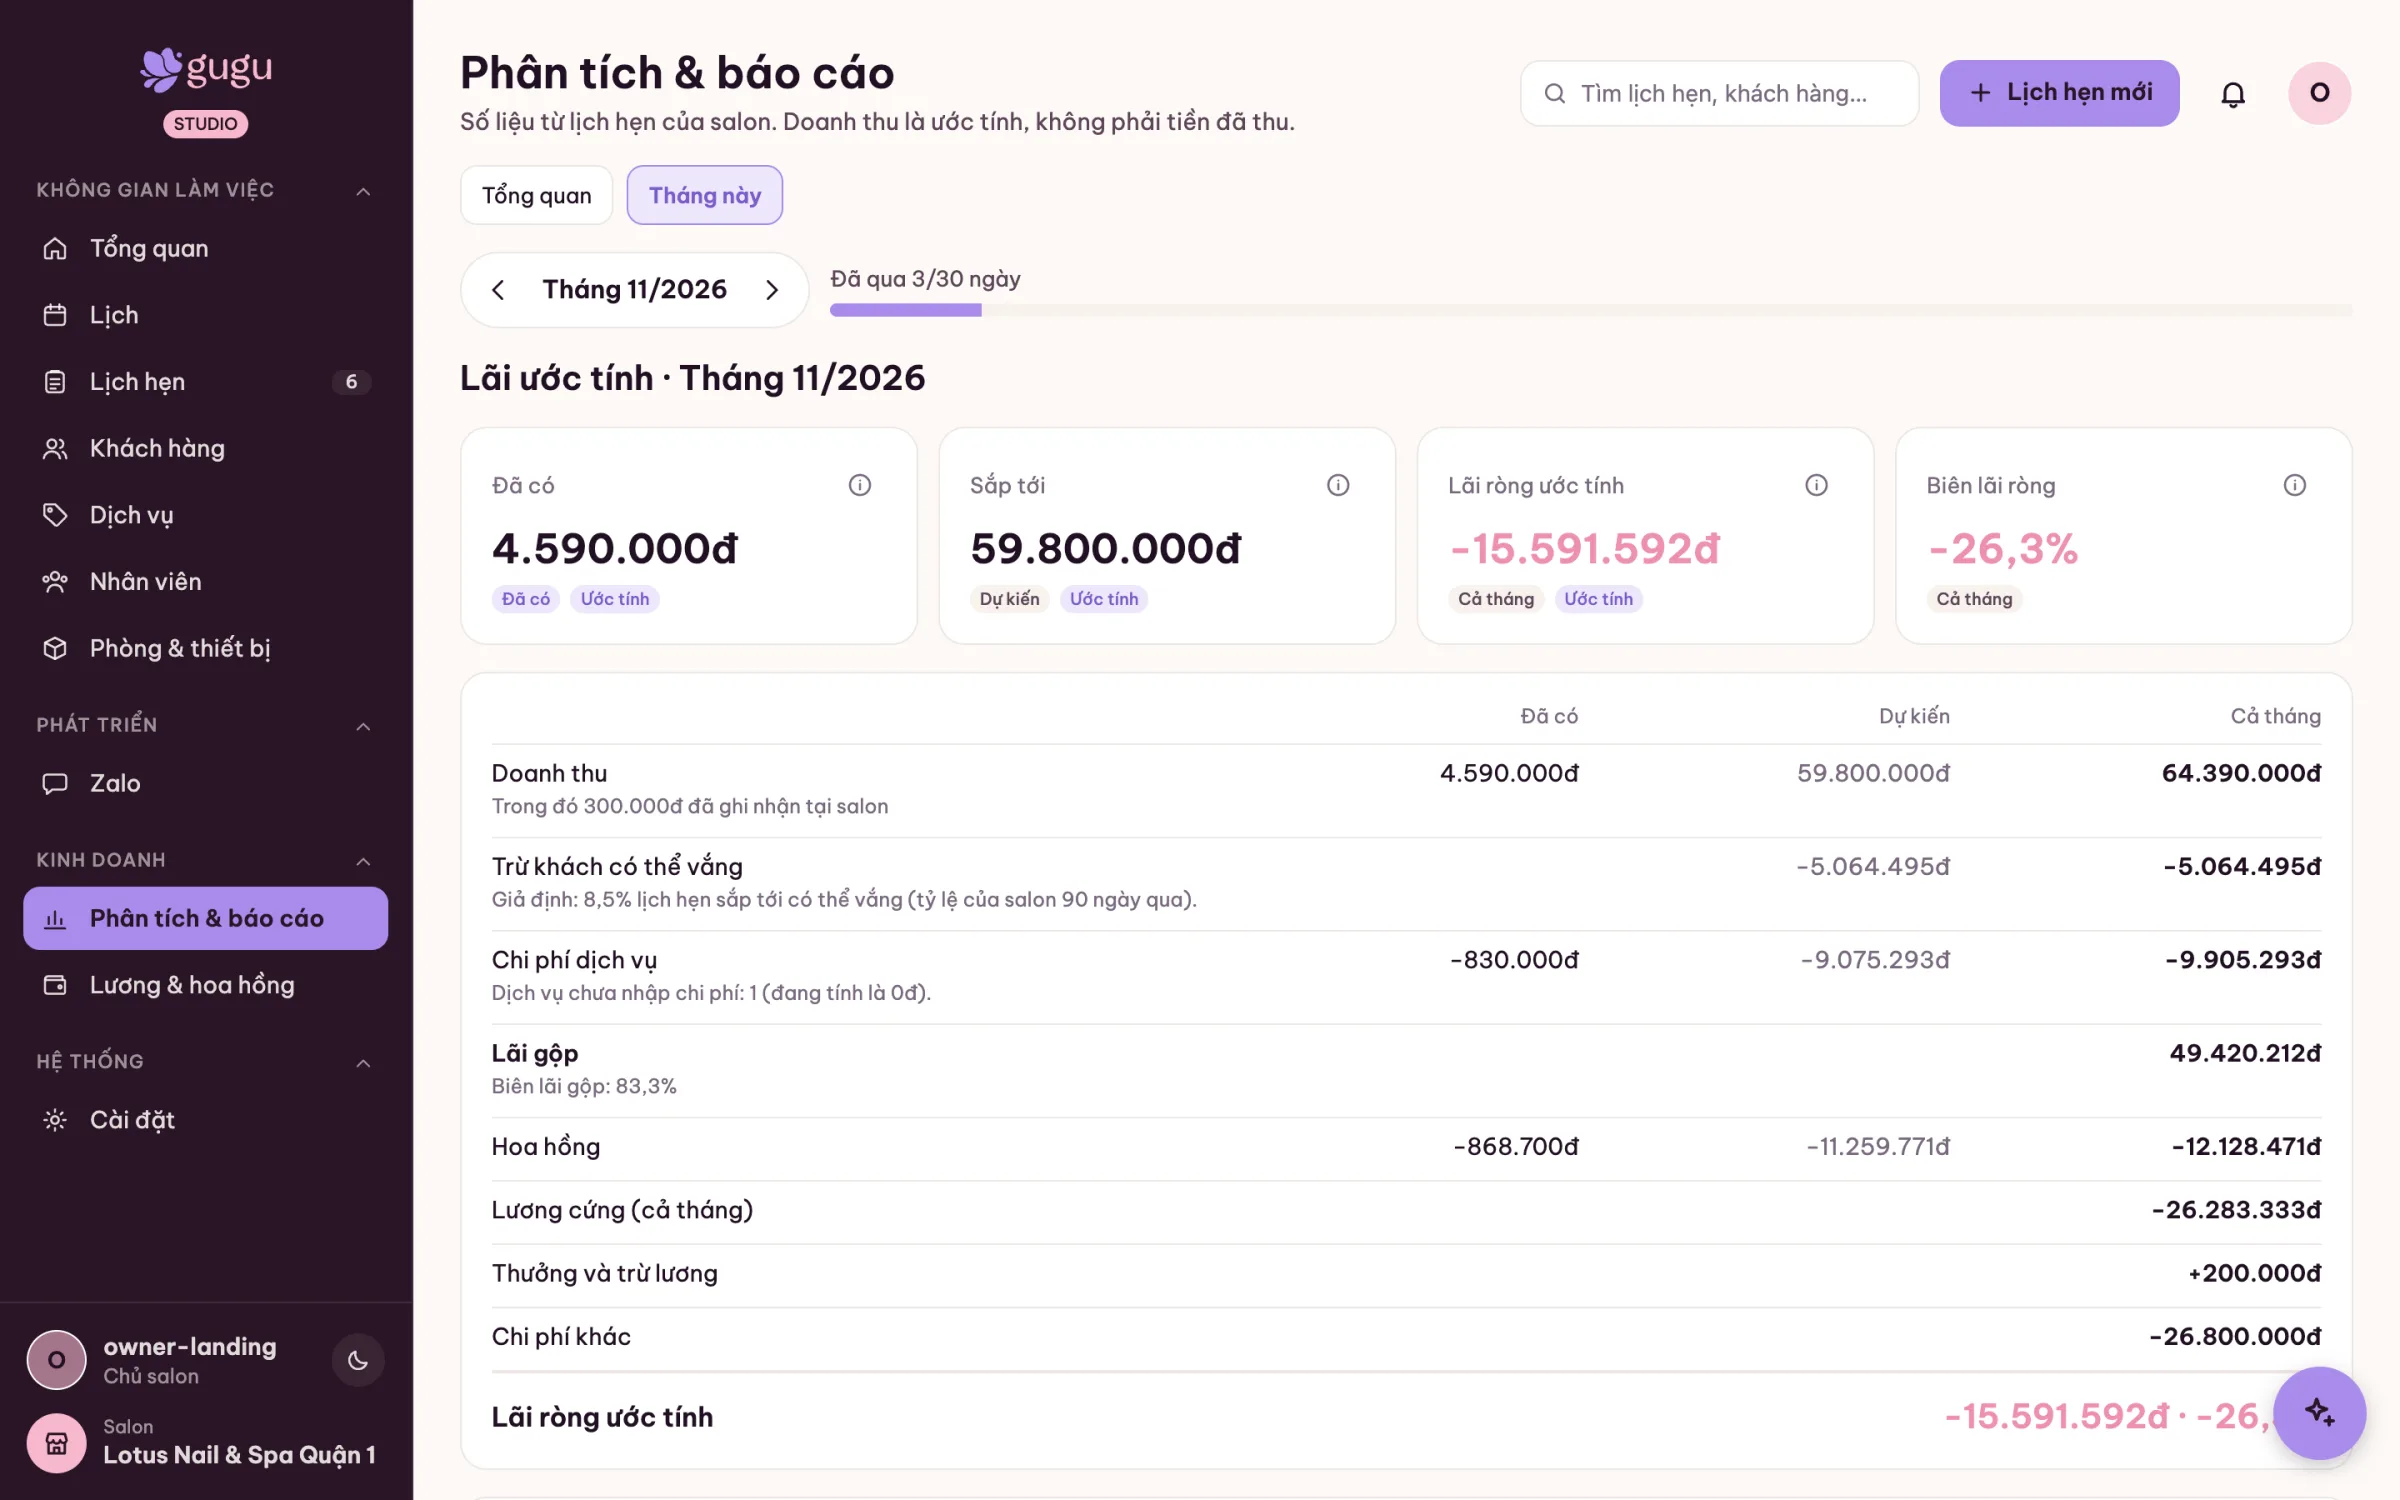
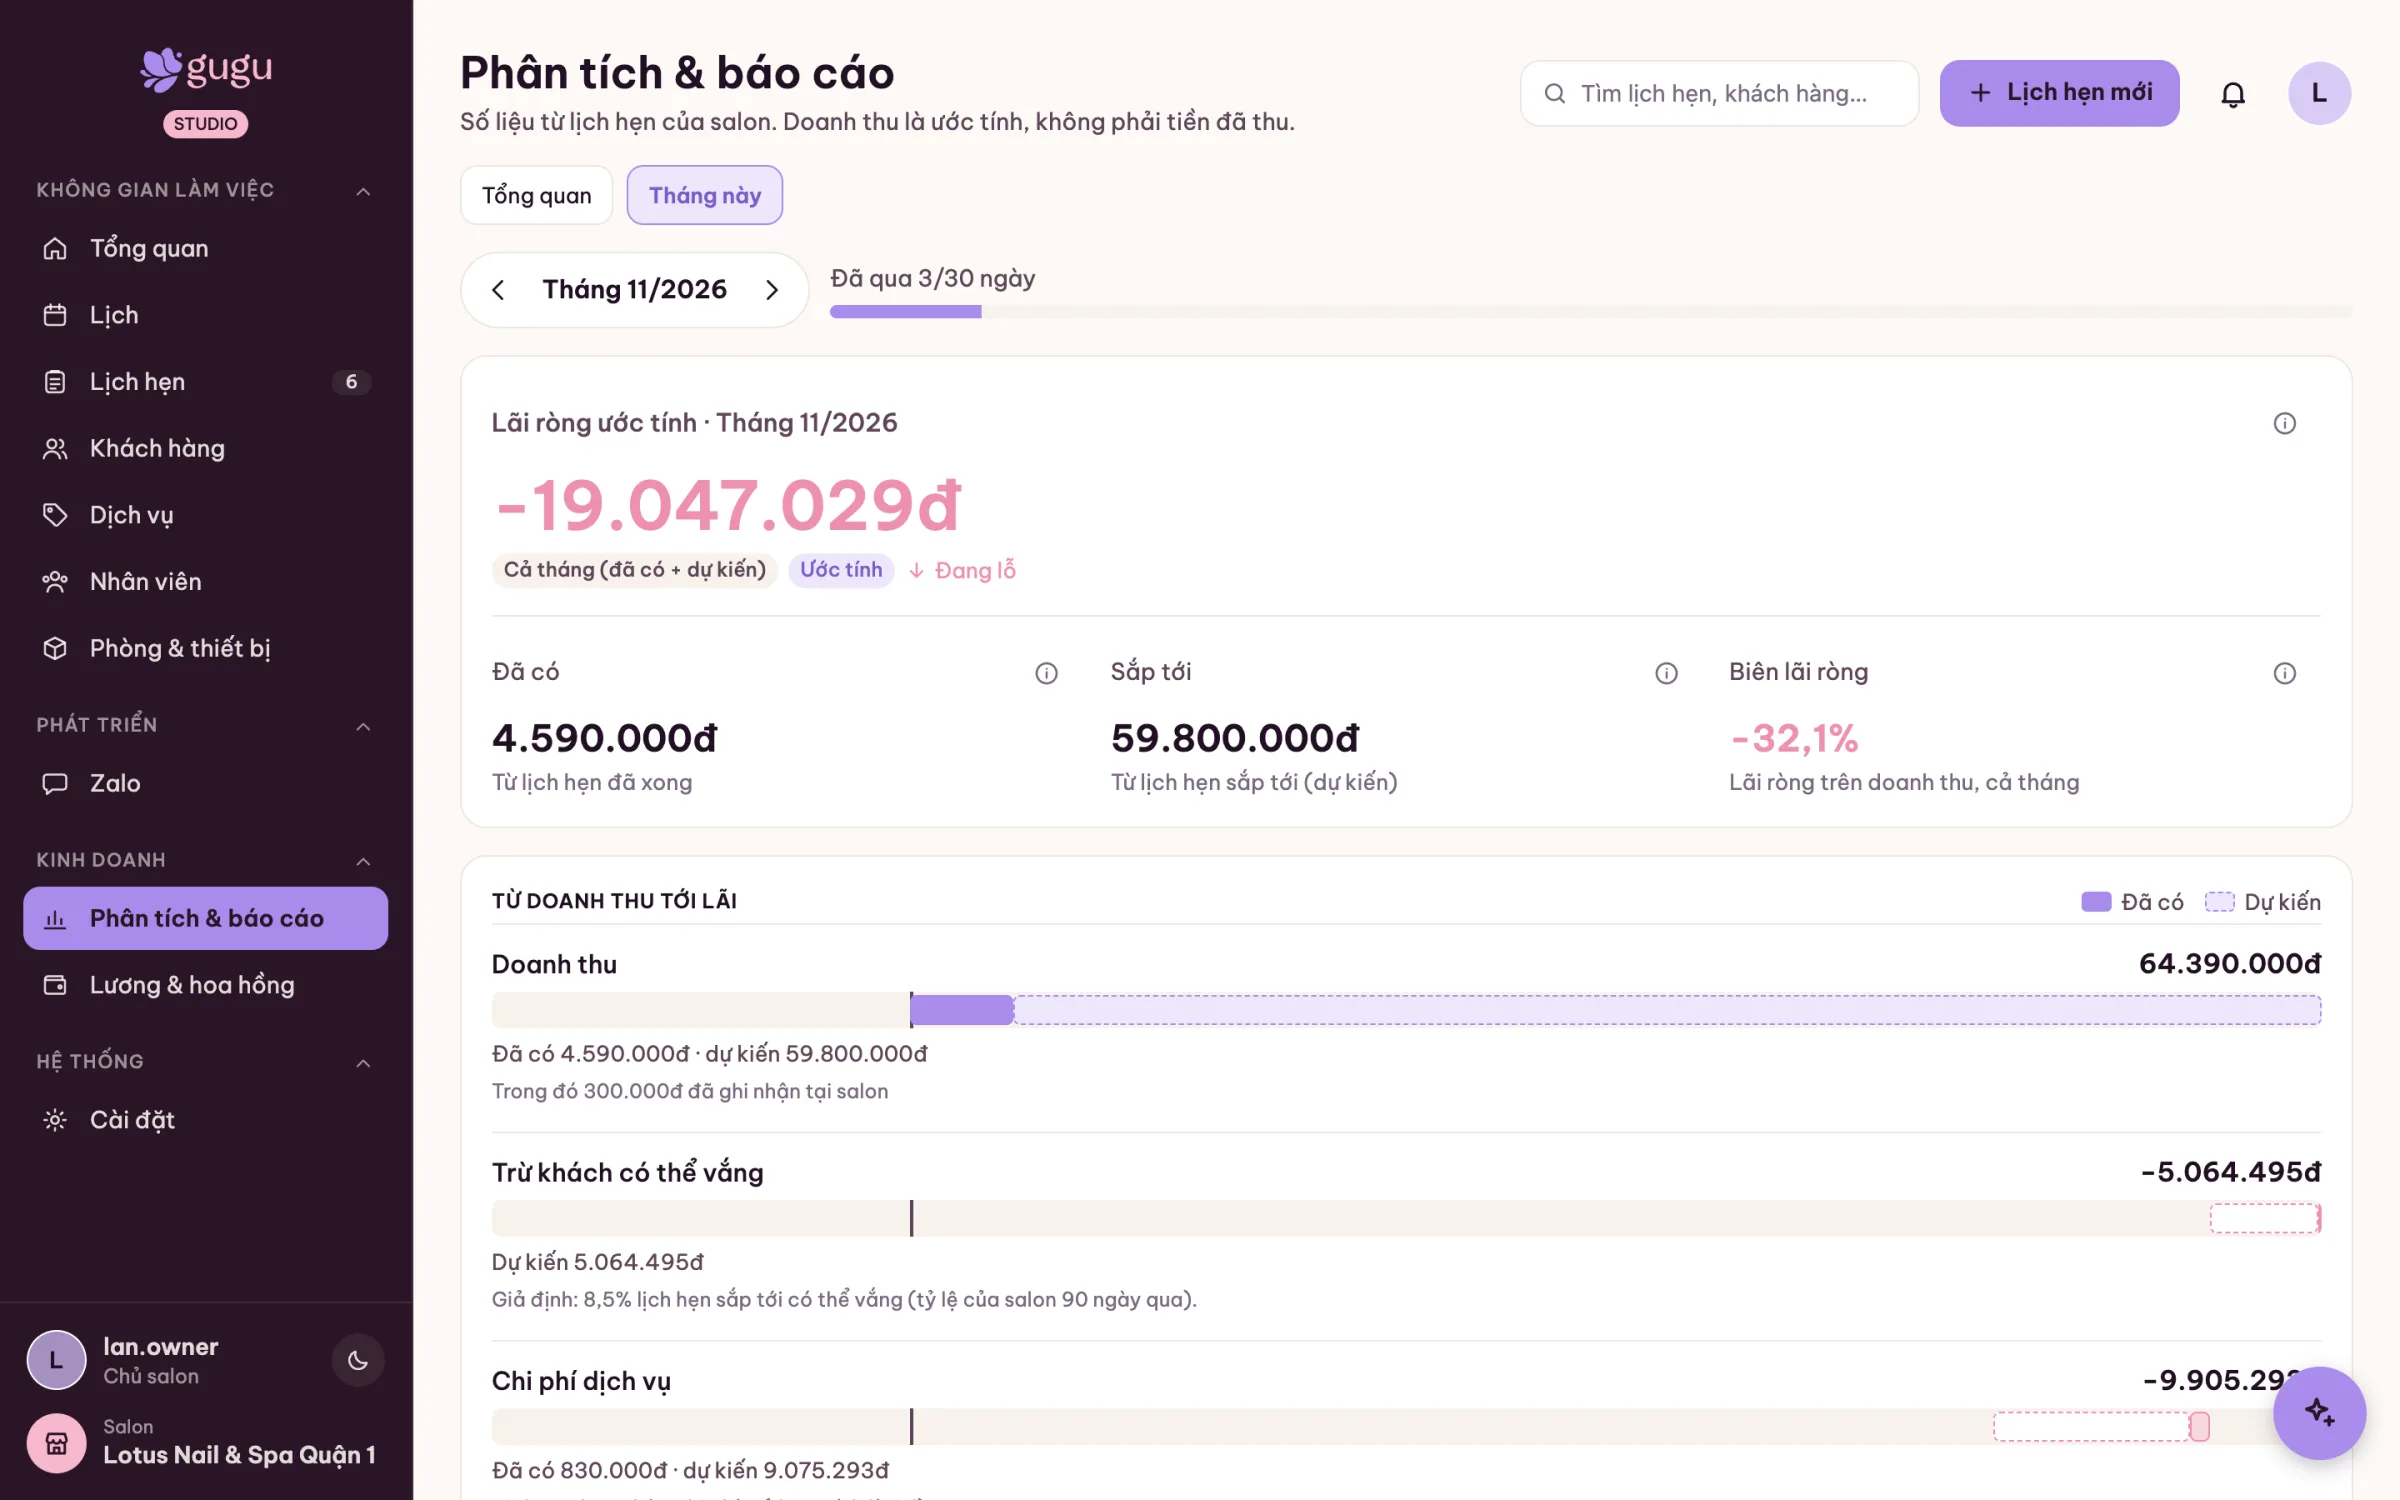
feat(02): final retake after payroll UX — whole payroll feature, real Insights, clean overview; atomic captures; intro speed-up
- Re-seeded own DB (seed-payroll-demo) on main 96cdd79; setup finished, no checklist.
- Pay page: full payroll month screen (CSV/Excel export, close month, summary, table, tax note) with
  the per-person drawer sliding in; phones show the drawer. payroll-table crop removed.
- Office laptop: overview crop below the month estimate card (seeded month is negative).
- Capture script: temp dir + atomic rename for images and manifest (the :8094 'empty image asset'
  error), fail on error overlays / Server Error with retries, hide the assistant bubble, clickText /
  clickAt / scrollY actions.
- Next / → / ↓ again during the intro speeds it up; scroll, ← and chapters stay ignored.
i18n:vi-review (flow.payroll.shot, flow.payroll.shotPerson)

diff --git a/apps/app/features/landing/flow/flow.css.ts b/apps/app/features/landing/flow/flow.css.ts
@@ -326,12 +326,18 @@ export const FLOW_CSS = `
 .in-list li i{font-style:normal;flex:0 0 22px;height:22px;border-radius:50%;background:${color.ink};color:${color.white};display:flex;align-items:center;justify-content:center;font-size:12px}
 .py-note{font-family:${font.ui};font-size:12.5px;color:${color.ink2};margin:12px 0 0}
 .bo-shot{grid-row:1 / 3;align-self:center;margin:0;padding:14px}
-.bo-shot.ins{grid-column:7/13}.bo-shot.pay{grid-column:6/13}
+.bo-shot.ins{grid-column:7/13}
+.py-shots{grid-column:6/13;grid-row:1 / 3;align-self:center;position:relative;padding-bottom:4%}
+.py-shots .bo-shot{margin:0}
+.pay-person{position:absolute;right:-1.5%;bottom:-4%;width:31%;box-shadow:0 30px 70px rgba(42,20,38,.28)}
+.pay-person.bo-shot{padding:10px}
+.pay-person figcaption{font-size:12.5px;padding:0 2px 8px}
 .bo-shot figcaption{font-family:${font.uiSemiBold};font-size:14px;color:${color.ink};padding:2px 4px 12px}
 /* desktop: the whole crop at ≈ 1:1 CSS px; phones: full height, cropped sideways (text stays legible) */
 .bo-img{position:relative;overflow:hidden;border-radius:14px;border:1px solid ${color.lineSoft};background:${color.canvas};aspect-ratio:var(--ar)}
 .bo-img img{position:absolute;top:0;left:0;height:100%;width:auto;max-width:none;display:block}
-.bo-shot.ins{--ar:2.09}.bo-shot.pay{--ar:2.58}
+.bo-shot.ins{--ar:2.09}.pay-month{--ar:1.4734}.pay-person{--ar:.684}
+.pay-month .bo-img img,.pay-person .bo-img img{width:100%;height:auto}
 @media (max-width:899px){
   .ov-i,.ov-p{justify-content:flex-start}
   .ov-i .t .fl-h,.ov-p .t .fl-h{font-size:clamp(22px,6.2vw,27px);margin-bottom:0}
@@ -343,7 +349,11 @@ export const FLOW_CSS = `
   .py-note{font-size:11px;margin-top:6px}
   .bo-shot{padding:10px;width:100%;box-sizing:border-box}
   .bo-shot figcaption{font-size:12.5px;padding:0 2px 8px}
-  .bo-shot.ins{--ar:1.3}.bo-shot.pay{--ar:1.45}
+  .bo-shot.ins{--ar:1.3}
+  .py-shots{width:100%;padding:0}
+  .pay-month{display:none}
+  .pay-person{position:relative;right:auto;bottom:auto;width:100%;box-shadow:0 22px 60px rgba(42,20,38,.12)}
+  .pay-person{--ar:1.15}
 }
 /* X25 band right after the story: Basic free for the first year */
 .fy{padding:clamp(72px,12vh,140px) var(--g);background:linear-gradient(180deg,${color.canvas},${color.lilac100})}

diff --git a/apps/app/features/landing/flow/book.ts b/apps/app/features/landing/flow/book.ts
@@ -15,8 +15,8 @@ import { gsap } from "gsap";
  *   page the visitor left) and the sections below. While the journey is partly out of the viewport a
  *   "Center view" button smoothly re-docks it.
  * - Pages turn only by Next/Prev, HUD chapters, ← / → while the story is in view and one HORIZONTAL
- *   touch swipe per page. ↑ ↓ PgUp PgDn Space and vertical swipes scroll the page. Every input is ignored
- *   while the intro plays. A turn plays the timeline from one composed page to
+ *   touch swipe per page. ↑ ↓ PgUp PgDn Space and vertical swipes scroll the page. Scroll, swipes, ← and chapters are ignored
+ *   while the intro plays; Next / → / ↓ again speed it up. A turn plays the timeline from one composed page to
  *   the next at the original pacing and cannot stop half-way. Pressing Next / → again during a forward
  *   turn (or Prev / ← during a backward one) speeds it up to finish within 0.45 s, without skipping a
  *   page; the opposite direction reverses it. Page 1 has no Prev (nothing replays).
@@ -230,7 +230,11 @@ export function book(o: Opts): BookApi {
     if (then) after = then;
   };
   function next() {
-    if (intro === "playing") return; // every input is ignored while the intro plays
+    // Next / → again while the intro plays speeds it up (owner); nothing is queued, no page is skipped.
+    if (intro === "playing") {
+      fastForward();
+      return;
+    }
     if (intro === "todo") {
       playIntro();
       return;
@@ -379,7 +383,8 @@ export function book(o: Opts): BookApi {
     if (!horiz && !down && !up) return;
     if (!focusOk) return;
     if (intro === "playing") {
-      e.preventDefault(); // every input is ignored while the intro plays
+      e.preventDefault(); // scroll keys and ← are ignored; → / ↓ / PgDn / Space speed the intro up
+      if (k === "ArrowRight" || down) fastForward();
       return;
     }
     // ← → turn pages (and → / ↓ / PgDn / Space at the hero commit the intro, like a small scroll).

diff --git a/apps/app/features/landing/screens.ts b/apps/app/features/landing/screens.ts
@@ -25,8 +25,10 @@ const SCREENS = {
     appointmentsCrop2x: require("../../assets/studio/vi/appointments-crop-2x.webp") as number,
     insightsKpis: require("../../assets/studio/vi/insights-kpis.webp") as number,
     insightsKpis2x: require("../../assets/studio/vi/insights-kpis-2x.webp") as number,
-    payrollTable: require("../../assets/studio/vi/payroll-table.webp") as number,
-    payrollTable2x: require("../../assets/studio/vi/payroll-table-2x.webp") as number,
+    payrollMonth: require("../../assets/studio/vi/payroll-month.webp") as number,
+    payrollMonth2x: require("../../assets/studio/vi/payroll-month-2x.webp") as number,
+    payrollPerson: require("../../assets/studio/vi/payroll-person.webp") as number,
+    payrollPerson2x: require("../../assets/studio/vi/payroll-person-2x.webp") as number,
   },
   en: {
     overview: require("../../assets/studio/en/overview.webp") as number,
@@ -46,8 +48,10 @@ const SCREENS = {
     appointmentsCrop2x: require("../../assets/studio/en/appointments-crop-2x.webp") as number,
     insightsKpis: require("../../assets/studio/en/insights-kpis.webp") as number,
     insightsKpis2x: require("../../assets/studio/en/insights-kpis-2x.webp") as number,
-    payrollTable: require("../../assets/studio/en/payroll-table.webp") as number,
-    payrollTable2x: require("../../assets/studio/en/payroll-table-2x.webp") as number,
+    payrollMonth: require("../../assets/studio/en/payroll-month.webp") as number,
+    payrollMonth2x: require("../../assets/studio/en/payroll-month-2x.webp") as number,
+    payrollPerson: require("../../assets/studio/en/payroll-person.webp") as number,
+    payrollPerson2x: require("../../assets/studio/en/payroll-person-2x.webp") as number,
   },
 } as const;
 

diff --git a/apps/app/features/landing/flow/Payroll.tsx b/apps/app/features/landing/flow/Payroll.tsx
@@ -28,13 +28,24 @@ export function PayrollPanel() {
         </ul>
         <p className="py-note">{t("flow.payroll.note")}</p>
       </div>
-      <Shot
-        name="payrollTable"
-        name2x="payrollTable2x"
-        caption={t("flow.payroll.shot")}
-        sizes="(max-width: 899px) 154vw, 52vw"
-        className="pay"
-      />
+      {/* The whole payroll month screen (export, close, summary, table); the per-person drawer slides in
+          over it, as in the app. Phones show the drawer only (the full table is unreadable there). */}
+      <div className="py-shots">
+        <Shot
+          name="payrollMonth"
+          name2x="payrollMonth2x"
+          caption={t("flow.payroll.shot")}
+          sizes="(max-width: 899px) 1px, 56vw"
+          className="pay-month"
+        />
+        <Shot
+          name="payrollPerson"
+          name2x="payrollPerson2x"
+          caption={t("flow.payroll.shotPerson")}
+          sizes="(max-width: 899px) 92vw, 20vw"
+          className="pay-person"
+        />
+      </div>
     </div>
   );
 }

diff --git a/apps/app/features/landing/flow/timelines.ts b/apps/app/features/landing/flow/timelines.ts
@@ -410,7 +410,8 @@ export function buildJourney(
   const PY = PH.pay;
   show(tl, q, ".ov-p .t", PY, { y: 50 }, 0.025);
   stagger(tl, q, ".ov-p .in-list li", PY + 0.012, 0.007, { x: -20 }, 0.02);
-  show(tl, q, ".ov-p .bo-shot", PY + 0.006, { x: 40, scale: 0.96 }, 0.03);
+  show(tl, q, ".ov-p .pay-month", PY + 0.006, { x: 40, scale: 0.96 }, 0.03);
+  show(tl, q, ".ov-p .pay-person", PY + 0.035, { x: 60 }, 0.03);
   hide(tl, q, ".ov-p .t, .ov-p .bo-shot", PH.payOut);
 
   // switching (still in the office): the old system (notebook, spreadsheet, another app) flows into

diff --git a/docs/qa/02-landing-flow/README.md b/docs/qa/02-landing-flow/README.md
@@ -110,6 +110,18 @@ All pages are reachable forward and backward by Next/Prev, keys, swipes and the 
 - **`srcset` + `sizes`:** derived from the displayed width (box width × crop aspect ÷ box aspect). `width`/`height` attributes give the ratio before lazy load, which fixes a 0 px image on phones.
 - **Measured upscale** (displayed device px ÷ chosen file px; ≤ 1.15 required): 1440@2× 0.76–1.00, 1280@1× 0.44–0.52, 390@3× 0.60–0.82, 360@3× 0.59–0.82.
 
+## Final retake after payroll UX (main `96cdd79`)
+
+- **Fresh capture:** own DB `landing_gugu_payroll`, re-seeded with `seed-payroll-demo.mjs`; owner signed in, setup finished (no checklist anywhere; the script fails if one appears).
+- **Pay page = the whole feature:**
+  - the full payroll month screen: tabs, month, "Tải CSV / Tải Excel", "Chốt bảng lương", summary (to pay, projected, real employer cost), table and the tax note;
+  - the per-person drawer slides in over it (pay rule, commission per completed service, "Sửa lương");
+  - phones show the drawer only.
+- **Office laptop:** the overview crop below the "Tháng này" card (team timeline, upcoming, recent activity). The seeded month estimate is −19,047,029 ₫, so it is not shown in marketing.
+- **Refreshed with the same seed:** Insights KPIs, timeline, calendar, appointments and services crops.
+- **The error the owner saw on :8094:** the capture script wrote images in place, and the running Metro picked up half-written files ("Image asset … cannot be an empty file"). Now files are written in a temp dir and renamed atomically (images and manifest), and the script fails on any error overlay or "Server Error" instead of capturing it. The floating assistant bubble is hidden in captures.
+- **Intro speed-up:** Next / → / ↓ again during the intro speeds it up (owner); scroll, ← and chapters are still ignored.
+
 ## Back office uses real screens (owner, 2026-11-04)
 
 - **Insights page:** a real crop of the app's Insights screen ("Phân tích & báo cáo", 30 days: completed bookings, new and returning clients, estimated revenue, recorded at the salon, estimated gross margin).

diff --git a/docs/adr/0014-landing-story-book-navigation.md b/docs/adr/0014-landing-story-book-navigation.md
@@ -74,7 +74,8 @@ Normal page scrolling must always work, including while the story is in view." S
   out of the viewport and smoothly re-docks it;
 - "Skip the story" is removed (scrolling is free); "Finish journey" stays on the last page;
 - keys: only ← / → turn pages; ↑ ↓ PgUp PgDn Space are plain page scrolling (design re-review B2);
-- every input (scroll, keys, Next/Prev, chapters, swipes) is ignored while the intro plays (B1);
+- scroll, swipes, ← and chapters are ignored while the intro plays (B1); Next / → / ↓ again speed it up
+  (owner, later the same day);
 - only the intro keeps its narrow capture (the small-scroll threshold at the hero and the ≈ 7 s intro
   itself), which the owner asked for separately;
 - the hero's one call to action is a plaque at the foot of the arch ("Cuộn xuống hoặc bấm Bắt đầu để
